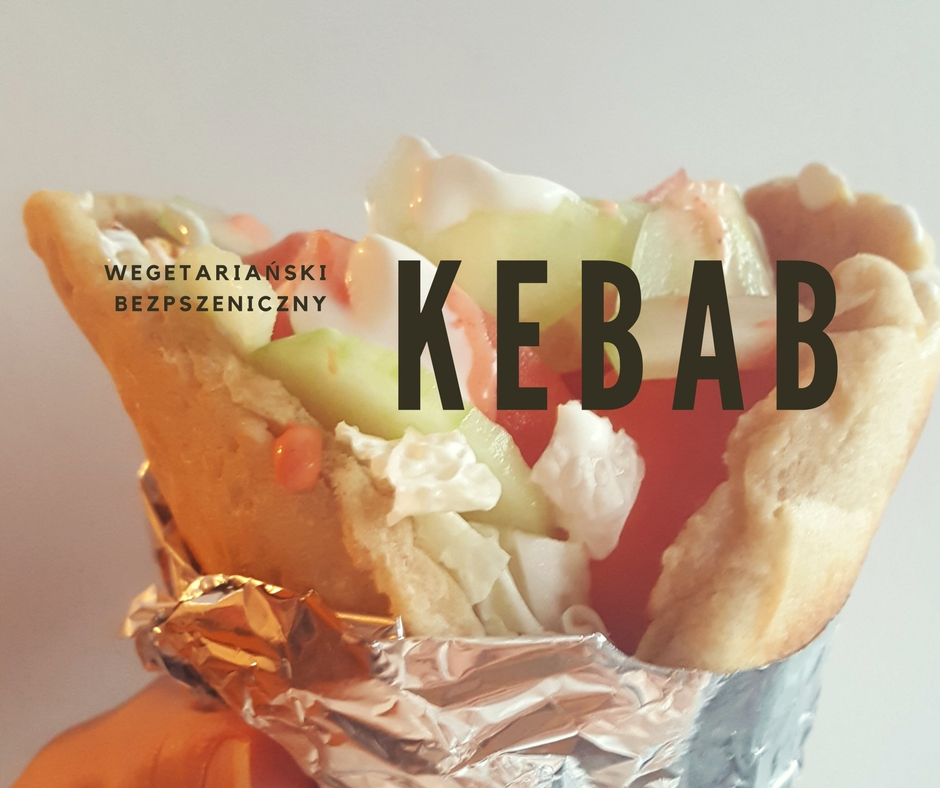
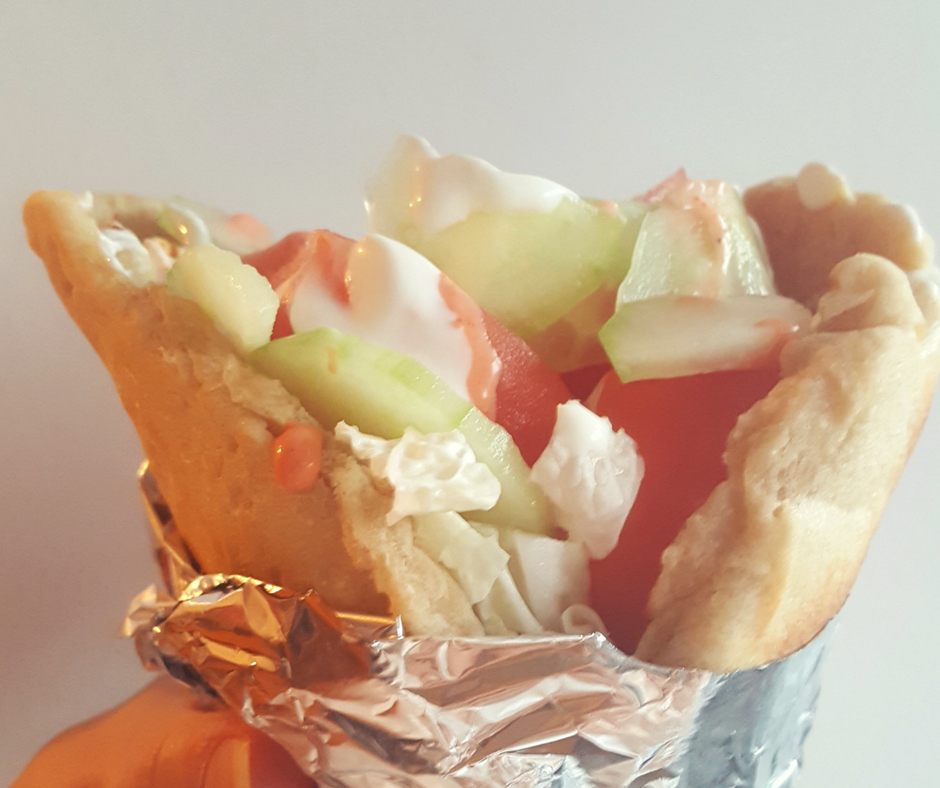
l

diff --git a/_posts/2018-03-09-kebab-w-dlon.md b/_posts/2018-03-09-kebab-w-dlon.md
@@ -3,7 +3,7 @@ layout: post
 title:  "Wegetariański i bezpszeniczny KEBAB"
 subtitle: Który wegetarianin nie tęskni za kebabem niech pierwszy rzuci kamieniem!
 date:   2018-03-09
-facebook: assets/img/kebab/tytul.jpg
+facebook: assets/img/kebab/polecane.jpg
 comments: true
 tags:
 - wegetariańskie
@@ -22,7 +22,7 @@ tags:
 
 Od dawna przechodzenie koło budek z kebabami było dla mnie udręką. No bo jak zjeść kebab, który nie dość, że jest z mięsem, to jeszcze podawany w pszennej bułce i z czosnkowym sosem. Trzy razy nie. Zaraz jednak przypominam sobie, że w sumie to nawet kiedy jadłam mięso, to nęcił mnie tylko zapach kebabów, a jego mogłoby tam wcale nie być. Zaczęłam więc kombinować - jak zrobić danie, które kebabem będzie pachnieć, ale niekoniecznie smakować? Musiało też oczywiście być w bułce, bo bez bułki to przecież zwykłe "mięso" z warzywami na talerzu (jak o tym myślę, zawsze przypominam sobie propozycje "burgera na talerzu" wegańskich burgerowni dla osób, które nie mogą jeść pszenicy - przecież to nie burger...). No i wymyśliłam! Zapraszam:)
 
-## Lista zakupów (na ok. 4 kebaby):
+## Lista zakupów (na ok. 4 kebaby)
 
 * kapusta pekińska
 * pomidor
@@ -41,7 +41,7 @@ Od dawna przechodzenie koło budek z kebabami było dla mnie udręką. No bo jak
 * 3/4 szklanki ciepłej wody (takiej żeby nie zabić drożdży) 
 * cytryna
 
-## Przepis:
+## Przepis
 
 UWAGA! Tofu najlepiej zamarynować dzień wcześniej!
 

diff --git a/_posts/2018-02-16-jajka-garam-masala.md b/_posts/2018-02-16-jajka-garam-masala.md
@@ -3,7 +3,7 @@ layout: post
 title:  "Jajka garam masala"
 subtitle: Idealne, rozgrzewające śniadanie na zimowy dzień pełen wrażeń!
 date:   2018-02-16
-facebook: assets/img/jajka/tytul.jpg
+facebook: assets/img/jajka/polecane.jpg
 comments: true
 tags:
 - wegetariańskie
@@ -22,6 +22,7 @@ tags:
 O garam masala usłyszałam kiedyś, oglądając jakieś show o gotowaniu kręcone w RPA. Konkurencja dotyczyła wówczas śniadań i jeden z uczestników przygotował jajko zapieczone w kokilce w pomidorach i papryce, właśnie z dodatkiem tej mieszanki przypraw. Natchnęło mnie to do wymyślenia własnej wersji jajek garam masala. Okazało się, że są idealne na zimowe poranki, kiedy ciało potrzebuje sie rozgrzać i mieć więcej energii do walki z zimnem przez cały dzień. Częstujcie się! :)
 
 ## Lista zakupów (2 porcje)
+
 * 4 jajka (pamiętajmy, by były to te z pieczątką 0 lub 1, kury nam podziękują!)
 * puszka pomidorów
 * 1 cała papryka czerwona lub po 1/3 czerwonej, żółtej i zielonej (wtedy potrawa ma bardziej wyrazisty smak)
@@ -34,7 +35,7 @@ O garam masala usłyszałam kiedyś, oglądając jakieś show o gotowaniu kręco
 
 ![zdjecie]({{ site.url }}/assets/img/jajka/1.jpg)
 
-## Przepis:
+## Przepis
 
 Cebulę i papryki kroimy w drobną kosteczkę i wrzucamy na rozgrzaną patelnię z oliwą. Smażymy aż cebula się zeszkli, a papryki zmiękną.
 

diff --git a/_posts/2018-07-16-najlepszy-niedzielny-wege-obiad.md b/_posts/2018-07-16-najlepszy-niedzielny-wege-obiad.md
@@ -1,9 +1,9 @@
 ---
 layout: post
-title:  "Najlepszy niedzielny obiad"
-subtitle: Panierowany kotlet z tofu, młoda kapustka i ziemniaki z koperkiem.
+title:  "Panierowany kotlet z tofu, młoda kapustka i ziemniaki z koperkiem"
+subtitle: Najlepszy niedzielny obiad!
 date:   2018-07-16
-facebook: assets/img/niedziela/tytul.jpg
+facebook: assets/img/niedziela/polecane.jpg
 comments: true
 tags:
 - wegetariańskie
@@ -21,7 +21,8 @@ tags:
 
 Kto powiedział, że nie jedząc mięsa nie można zjeść kotleta? Albo, że nie można zjeść "prawdziwego, polskiego obiadu"? To danie dowodzi, że jest to jak najbardziej możliwe! Proponuję zaserwować je każdemu niedowiarkowi. Na upanierowanie tofu w resztkach bezglutenowego chleba wpadł mój narzeczony, a pomysł tak mi się spodobał, że musiałam się z Wami nim podzielić! Tofu wychodzi idealnie chrupiące, a młode ziemniaki i młoda, podsmażana kapusta są świetnymi (co w sumie wiadomo nie od dziasiaj) do niego dodatkami. Świetnie jednak sprawdzają się również frytki i inne warzywne dodatki jak kiszone ogórki czy mizeria.
 
-## Lista zakupów:
+## Lista zakupów
+
 * tofu ok. 200g
 * bezglutenowa bułka tarta (można kupić gotową, chociaż jej skład jest zazwyczaj kosmiczny, albo, tak jak ja, zrobić ją z podpieczonych piętek bezglutenowego chleba)
 * 1/2 główki młodej kapusty

diff --git a/_posts/2018-01-30-czy-kawa-szkodzi-jelitom.md b/_posts/2018-01-30-czy-kawa-szkodzi-jelitom.md
@@ -3,14 +3,15 @@ layout: post
 title:  "Jak jest z tą kawą?"
 subtitle: Czy faktycznie źle wpływa na jelita?
 date:   2018-01-30
-facebook: assets/img/kawa/kawa.jpg
+facebook: assets/img/kawa/polecane.jpg
 project: true
 comments: true
 ---
 
-![zdjecie]({{ site.url }}/assets/img/kawa/kawa.jpg)
+![zdjecie]({{ site.url }}/assets/img/kawa/tytul.jpg)
 
 Moje doświadczenia z kawą są lekko mówiąc różne. Po pierwsze to właśnie przy piciu kawy z mlekiem dowiedziałam sie o nietolerancji laktozy. 
+
 Od tamtej pory przerzuciłam się na picie czarnej, mocnej kawy lub tej z roślinnym mlekiem. Niestety po pewnym czasie i taka kawa zaczęła mi szkodzić. Ból brzucha, biegunka... Podobno łącznie z bólem żołądka są to często występujące objawy u wielu ludzi. 
 Najczęściej kawa szkodziła mi wtedy, gdy piłam ją do śniadania, nie daj Boże na pusty żołądek lub połączona z sokiem pomarańczowym. Dlatego po przejściu na dietę FODMAP, choć kawa w małych ilościach jest w niej dozwolona, ja odrzuciłam ją całkowicie. Pozwoliło mi to pozbyć się przykrych problemów, jednak nie wiedziałam do końca czy to z powodu zmiany diety, czy nie picia kawy.
 

diff --git a/_posts/2018-02-04-makaron-ze-szpinakiem-i-smietanka.md b/_posts/2018-02-04-makaron-ze-szpinakiem-i-smietanka.md
@@ -3,7 +3,7 @@ layout: post
 title:  "Szpinak w roli głownej,"
 subtitle: czyli błyskawiczny kukurydziany makaron ze śmietanką, szpinakiem i suszonymi pomidorami...
 date:   2018-02-04
-facebook: assets/img/makaron/tytul.png
+facebook: assets/img/makaron/polecane.jpg
 comments: true
 tags:
 - wegetariańskie
@@ -17,7 +17,7 @@ tags:
 - bezlaktozowe 
 ---
 
-![zdjecie]({{ site.url }}/assets/img/makaron/tytul.png)
+![zdjecie]({{ site.url }}/assets/img/makaron/tytul.jpg)
 
 Nie przesadzę jeśli powiem, że moje życie zmieniło się na lepsze, gdy odkryłam, że nie szkodzą mi produkty mleczne bez laktozy (oprócz jednak mleka, którego w żadnej odsłonie nie mogę spożywać). Staram się nie jeść ich jednak zbyt często i w zbyt dużych ilościach ze względów światpoglądowych, ale weganką nie jestem i nie sądzę, że kiedykolwiek nią zostanę (jednak inne jajka niż 0 lub 1 nie przejdą mi przez gardło). Oprócz więc białego sera ze szczypiorkiem i tostów z żółtym serem na naszym stole zagościła odtłuszczona wersja ciężkiego, śmietanowego makaronu ze szpinakiem. Zapraszam po przepis!
 

diff --git a/_posts/2018-07-09-budda-bowl.md b/_posts/2018-07-09-budda-bowl.md
@@ -1,9 +1,9 @@
 ---
 layout: post
-title:  "Budda bowl"
+title:  "Buddha bowl"
 subtitle: Kolorowy, lekki, prosty w przygotowaniu lunch.
 date:   2018-07-09
-facebook: assets/img/budda/tytul.jpg
+facebook: assets/img/budda/polecane.jpg
 comments: true
 tags:
 - wegetariańskie
@@ -31,6 +31,7 @@ tags:
 Budda bowle to moje najnowsze odkrycie. Można je skomponować praktycznie ze wszystkich składników, które mamy w domu - od pomidorów przez makaron po resztki hummusu. Pasują też do każdej diety - bezglutenowej, wegańskiej, raw... Poniższa kompozycja jest jedynie przykładowa - wypróbujcie inne! Wystarczy jedynie włączyć wyobraźnię i otworzyć lodówkę. 
 
 ## Lista zakupów (na jedną porcję)
+
 * awokado (1/2)
 * [hummus](http://pokarmlove.com.pl/hummus/) ok. 2 łyżki
 * ciecierzyca z puszki (1/2)
@@ -45,7 +46,8 @@ Budda bowle to moje najnowsze odkrycie. Można je skomponować praktycznie ze ws
 * ocet ryżowy ok. 1/2 łyżeczki
 * cytryna (kilka kropel do awokado)
 
-## Inne możliwości:
+## Inne możliwości
+
 * fasola z puszki
 * kukurydza
 * pomidorki koktajlowe

diff --git a/_posts/2018-02-08-orkiszowe-paczki-babci-krysi.md b/_posts/2018-02-08-orkiszowe-paczki-babci-krysi.md
@@ -1,9 +1,9 @@
 ---
 layout: post
-title:  "Orkiszowe pączki z przepisu Babci Krysi"
+title:  "Orkiszowe pączki Babci Krysi"
 subtitle: Domowy, szybki sposób na Tłusty Czwartek.
 date:   2018-02-08
-facebook: assets/img/paczki/tytul.jpg
+facebook: assets/img/paczki/polecane.jpg
 comments: true
 tags:
 - wegetariańskie
@@ -36,6 +36,7 @@ Dodatkowo:
 Mąkę i cukier puder przesiewamy, ser gnieciemy w rękach. Łączymy wszystkie składniki na stolnicy, wyrabiamy. 
 
 ![zdjecie]({{ site.url }}/assets/img/paczki/2.jpg)
+
 ![zdjecie]({{ site.url }}/assets/img/paczki/3.jpg)
 
 Rozgrzewamy olej na patelni (ok. 1,5 cm warstwa). Rozwałkowujemy ciasto na grubość ok. 1,5 cm, wycinamy kółeczka o średnicy ok. 3cm. Smażymy na nie za gorącym oleju (pączki muszą się chwilę smażyć, żeby nie były surowe, a gdy olej będzie za gorący za szybko się spalą, ale nie będą gotowe).

diff --git a/_posts/2018-03-20-pasta-awokado-guacamole.md b/_posts/2018-03-20-pasta-awokado-guacamole.md
@@ -1,9 +1,9 @@
 ---
 layout: post
 title:  "¡Hola, guacamole!"
-subtitle: Najlepsza pasta z najlepszego owocu!
+subtitle: Najlepsza pasta z najlepszego owocu.
 date:   2018-03-20
-facebook: assets/img/guacamole/tytul.jpg
+facebook: assets/img/guacamole/polecane.jpg
 comments: true
 tags:
 - wegetariańskie

diff --git a/_posts/2018-08-03-zamienniki-w-kuchni-alergika-wegetarianina.md b/_posts/2018-08-03-zamienniki-w-kuchni-alergika-wegetarianina.md
@@ -3,7 +3,7 @@ layout: post
 title:  "Zamienniki w kuchni alergika-wegetarianina,"
 subtitle: czyli co wrzucić do garnka, żeby lepiej smakowało i nie uczulało.
 date:   2018-08-03
-facebook: assets/img/zamienniki/tytul.jpg
+facebook: assets/img/zamienniki/polecane.jpg
 project: true
 comments: true
 ---

diff --git a/_posts/2018-07-31-vege-lazania.md b/_posts/2018-07-31-vege-lazania.md
@@ -3,7 +3,7 @@ layout: post
 title:  "Vege lazania"
 subtitle: Tak pyszna, że nawet zapaleni mięsożercy nie zauważą braku mięsa!
 date:   2018-07-31
-facebook: assets/img/lazania/tytul.jpg
+facebook: assets/img/lazania/polecane.jpg
 comments: true
 tags:
 - soczewica

diff --git a/_posts/2018-07-11-paprykowe-niespodzianki-zapiekana-papryka.md b/_posts/2018-07-11-paprykowe-niespodzianki-zapiekana-papryka.md
@@ -3,7 +3,7 @@ layout: post
 title:  "Paprykowe niespodzianki,"
 subtitle: czyli papryka zapiekana z warzywno-jaglanym farszem.
 date:   2018-07-11
-facebook: assets/img/papryka/tytul.jpg
+facebook: assets/img/papryka/polecane.jpg
 comments: true
 tags:
 - wegetariańskie

diff --git a/_posts/2018-02-06-zero-waste.md b/_posts/2018-02-06-zero-waste.md
@@ -3,7 +3,7 @@ layout: post
 title:  "\"Zero waste\" po mojemu,"
 subtitle: czyli jak jeszcze raz wykorzystać zużyte produkty.
 date:   2018-02-06
-facebook: assets/img/waste/tytul.jpg
+facebook: assets/img/waste/polecane.jpg
 project: true
 comments: true
 ---
